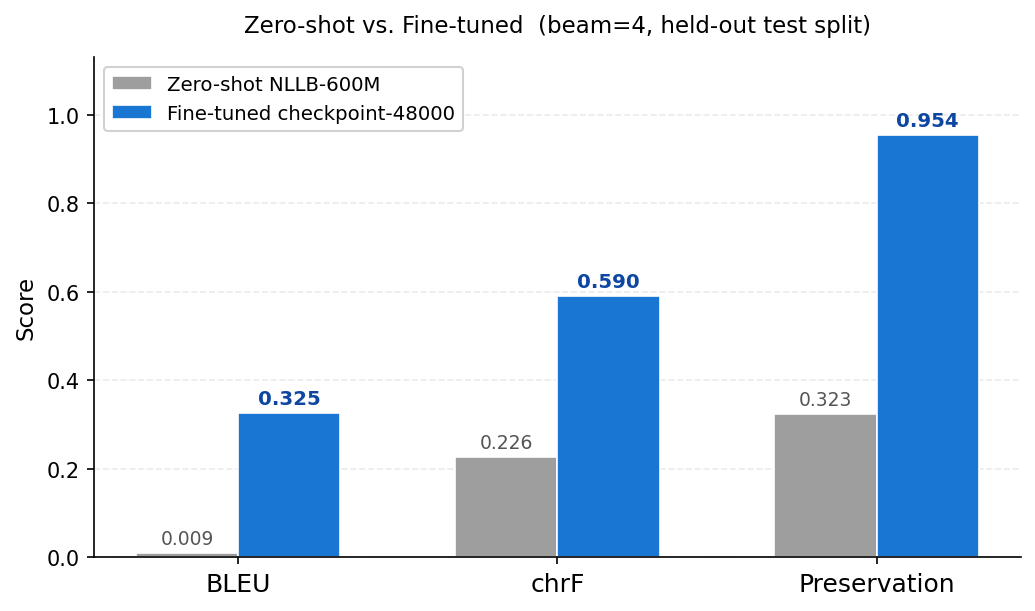
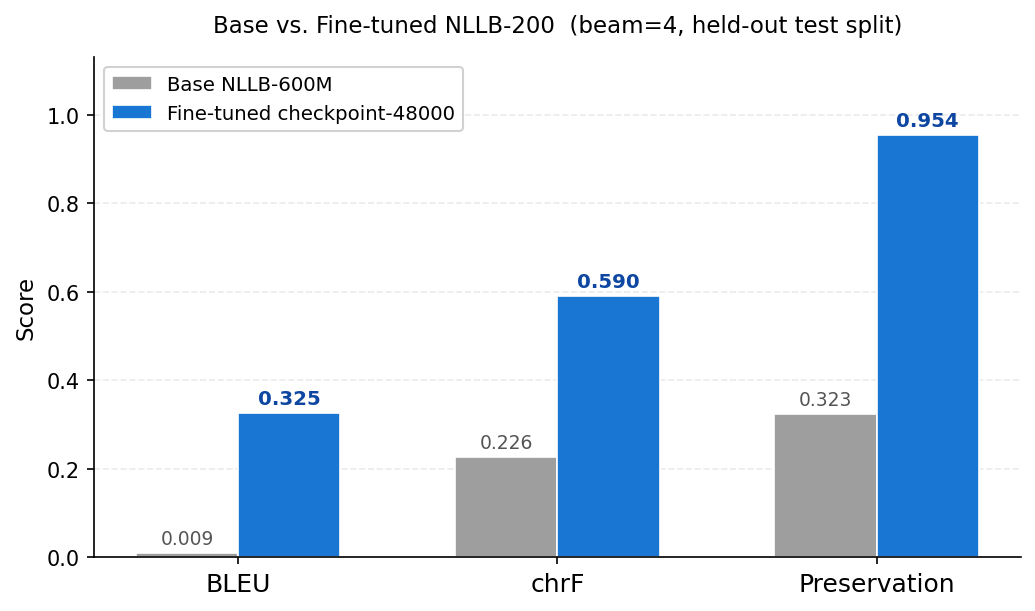
Rename Zero-shot → Base in capability ladder and comparison chart
Replace all "Zero-shot" references with "Base" across tri-language READMEs
and regenerate docs/figures/capability_comparison.png with updated title
and legend ("Base NLLB-600M" / "Base vs. Fine-tuned NLLB-200").

Changed region(s): [[0.1855, 0.0311, 0.8657, 0.0622], [0.1546, 0.1244, 0.371, 0.1555]]

diff --git a/README.md b/README.md
@@ -30,12 +30,12 @@
 
 | 단계 | BLEU | chrF | Preservation (no-space) |
 | --- | --- | --- | --- |
-| Zero-shot NLLB-600M *(파인튜닝 전 기준선 — marker 없음)* | 0.009 | 0.226 | 0.323 |
+| Base NLLB-600M *(파인튜닝 전 기준선 — marker 없음)* | 0.009 | 0.226 | 0.323 |
 | Fine-tuned `checkpoint-48000`, beam=4 **(현재 모델)** | **0.325** | **0.590** | **0.954** |
 
-![Zero-shot vs. Fine-tuned 성능 비교](docs/figures/capability_comparison.png)
+![Base vs. Fine-tuned NLLB-200 성능 비교](docs/figures/capability_comparison.png)
 
-파인튜닝 + 데이터 정제의 순 효과: 동일한 beam=4 디코딩 기준 **+0.316 BLEU (~34×)**; glossary preservation이 ~32%에서 ~95%로 상승했습니다. Zero-shot 기반 모델은 유창하게 들리는 한국어를 생성하지만 게임 특유 용어와 캐릭터 이름을 완전히 놓칩니다. 파인튜닝과 데이터 정제가 합쳐서 전체 차이를 설명합니다.
+파인튜닝 + 데이터 정제의 순 효과: 동일한 beam=4 디코딩 기준 **+0.316 BLEU (~34×)**; glossary preservation이 ~32%에서 ~95%로 상승했습니다. Base 모델은 유창하게 들리는 한국어를 생성하지만 게임 특유 용어와 캐릭터 이름을 완전히 놓칩니다. 파인튜닝과 데이터 정제가 합쳐서 전체 차이를 설명합니다.
 
 ## 현재 범위
 

diff --git a/README.en.md b/README.en.md
@@ -30,12 +30,12 @@ This repository holds a complete, reproducible zh-CN → ko fine-tuning pipeline
 
 | Stage | BLEU | chrF | Preservation (no-space) |
 | --- | --- | --- | --- |
-| Zero-shot NLLB-600M *(pre-fine-tuning baseline — no markers)* | 0.009 | 0.226 | 0.323 |
+| Base NLLB-600M *(pre-fine-tuning baseline — no markers)* | 0.009 | 0.226 | 0.323 |
 | Fine-tuned `checkpoint-48000`, beam=4 **(current model)** | **0.325** | **0.590** | **0.954** |
 
-![Performance comparison: Zero-shot vs. Fine-tuned](docs/figures/capability_comparison.png)
+![Performance comparison: Base vs. Fine-tuned NLLB-200](docs/figures/capability_comparison.png)
 
-Net gain from fine-tuning + data cleaning: **+0.316 BLEU (~34×)** at the same beam=4 decode; glossary preservation rises from ~32% to ~95%. The zero-shot base model generates fluent-sounding Korean but completely misses game-specific terminology and character names; fine-tuning and data cleaning together account for the full gap.
+Net gain from fine-tuning + data cleaning: **+0.316 BLEU (~34×)** at the same beam=4 decode; glossary preservation rises from ~32% to ~95%. The base model generates fluent-sounding Korean but completely misses game-specific terminology and character names; fine-tuning and data cleaning together account for the full gap.
 
 ## Current Scope
 

diff --git a/README.zh-CN.md b/README.zh-CN.md
@@ -30,12 +30,12 @@
 
 | 阶段 | BLEU | chrF | Preservation (no-space) |
 | --- | --- | --- | --- |
-| Zero-shot NLLB-600M *（微调前基线 —— 无 marker）* | 0.009 | 0.226 | 0.323 |
+| Base NLLB-600M *（微调前基线 —— 无 marker）* | 0.009 | 0.226 | 0.323 |
 | Fine-tuned `checkpoint-48000`，beam=4 **（当前模型）** | **0.325** | **0.590** | **0.954** |
 
-![性能对比：Zero-shot vs. Fine-tuned](docs/figures/capability_comparison.png)
+![性能对比：Base vs. Fine-tuned NLLB-200](docs/figures/capability_comparison.png)
 
-微调 + 数据清洗带来的净增益：同档 beam=4 解码下 **+0.316 BLEU（~34×）**；glossary preservation 从 ~32% 升至 ~95%。Zero-shot 基础模型能生成听起来流畅的韩文，但完全无法命中游戏专有术语和角色名称，微调与数据清洗共同解释了全部差距。
+微调 + 数据清洗带来的净增益：同档 beam=4 解码下 **+0.316 BLEU（~34×）**；glossary preservation 从 ~32% 升至 ~95%。Base 模型能生成听起来流畅的韩文，但完全无法命中游戏专有术语和角色名称，微调与数据清洗共同解释了全部差距。
 
 ## 当前范围
 
